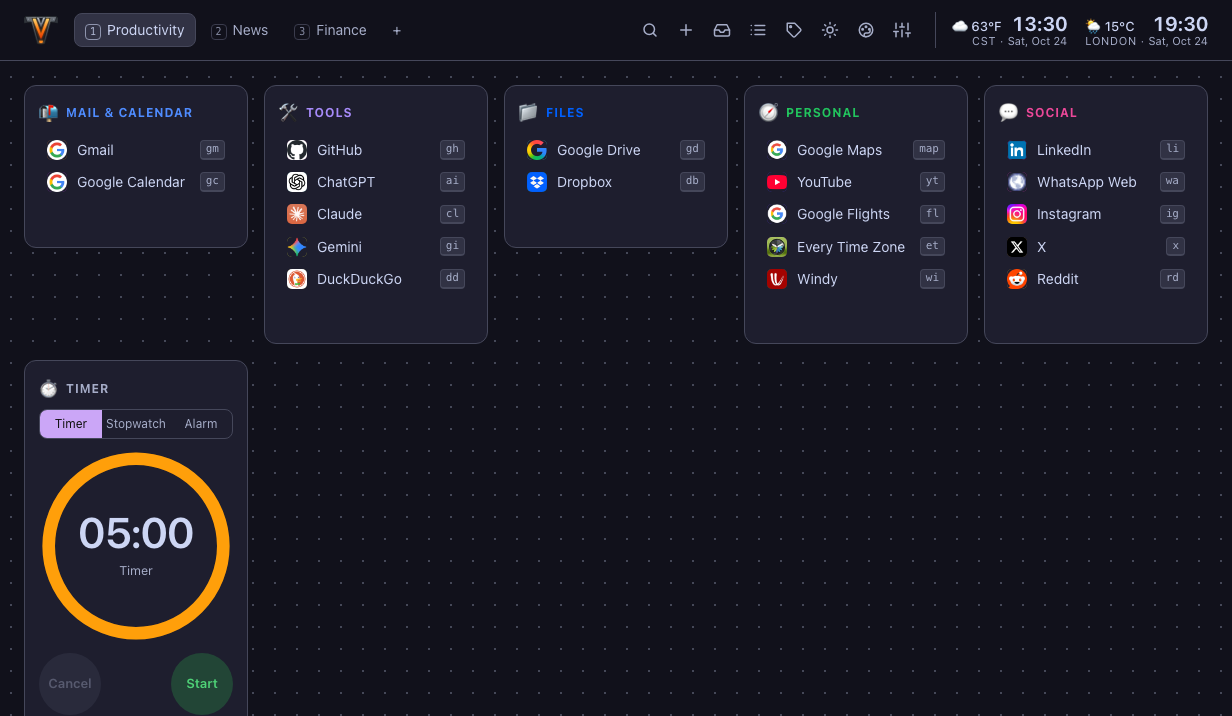
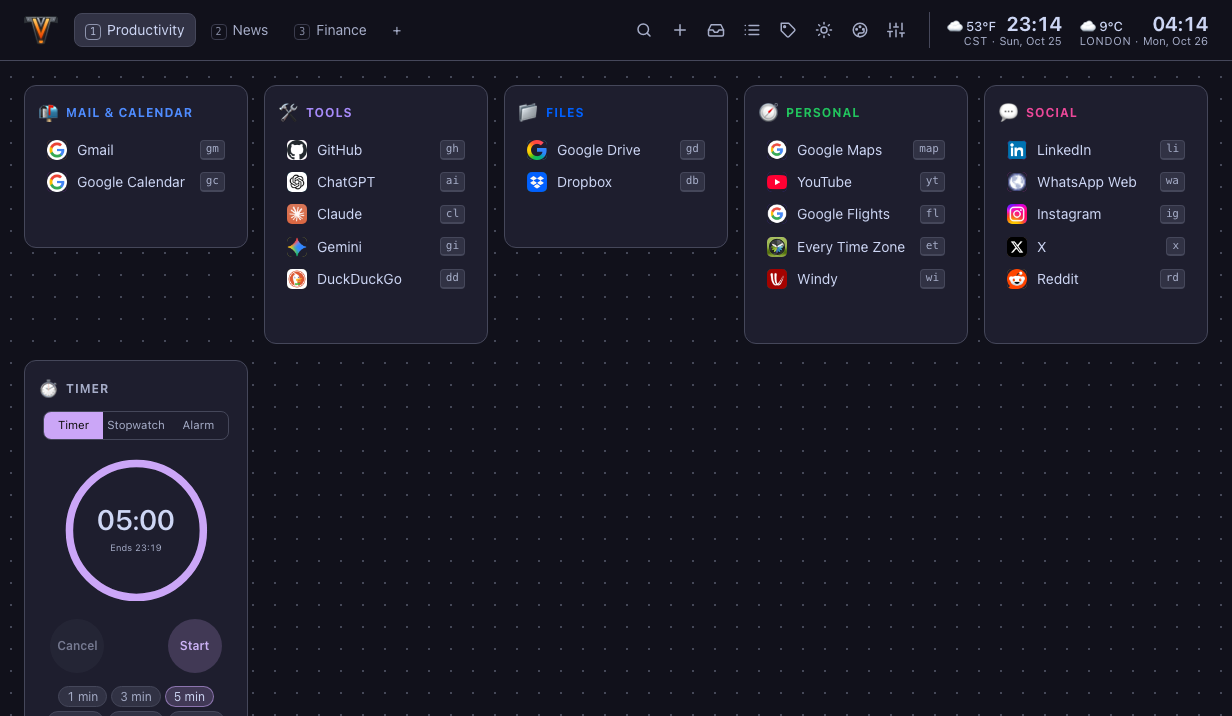
Polish the timer widget and match it to every theme (#8)
- The ring, buttons, presets and alarm switches take the theme's accent (or the card's colour) instead of fixed orange, blue and purple.
- Smaller ring and digits with more room at the card edges; thinner stroke.
- Neutral Cancel and Lap buttons, an outlined Pause, red Stop for the stopwatch, and theme colours for best and worst laps.
- An idle timer shows when it would end; the Time's up screen has a solid Stop button.
- Tour re-recorded.

diff --git a/index.html b/index.html
@@ -413,49 +413,56 @@ kbd{font:11px/1.5 var(--mono);background:var(--surface2);border:1px solid var(--
 .stk iframe{display:block;width:125%;height:150px;border:0;pointer-events:none;transform:scale(.8);transform-origin:0 0} /* the chart needs ~240px to show its price axis */
 .stkchart{height:min(52vh,440px);border-radius:8px;overflow:hidden;border:1px solid var(--border)}
 .stkchart iframe{width:100%;height:100%;border:0;display:block}
-.tm{display:flex;flex-direction:column;align-items:center;gap:10px}
+.tm{display:flex;flex-direction:column;align-items:center;gap:12px;padding:2px 4px}
 .tm .seg{align-self:stretch;display:flex}
-.tm .seg button{flex:1;padding:5px 4px;font-size:12px}
-.tmring{position:relative;width:min(100%,230px);aspect-ratio:1;container-type:inline-size}
+.tm .seg button{flex:1;padding:5px 4px;font-size:11.5px}
+.tmring{position:relative;width:min(80%,190px);aspect-ratio:1;container-type:inline-size;margin:4px 0 2px}
 .tmring[data-act]{cursor:pointer}
 .tmring svg{width:100%;height:100%;transform:rotate(-90deg);display:block}
-.tmring circle{fill:none;stroke-width:6.5;stroke-linecap:round}
-.tmring .trk{stroke:color-mix(in srgb,var(--tmc) 20%,transparent)}
+.tmring circle{fill:none;stroke-width:5;stroke-linecap:round}
+.tmring .trk{stroke:color-mix(in srgb,var(--tmc) 16%,transparent)}
 .tmring .bar{stroke:var(--tmc)}
 .tmin{position:absolute;inset:0;display:flex;flex-direction:column;align-items:center;justify-content:center;pointer-events:none}
-.tmd{font-size:22cqi;font-weight:600;font-variant-numeric:tabular-nums;letter-spacing:-.02em;line-height:1}
-.tmsub{font-size:6.5cqi;color:var(--muted);margin-top:4cqi;font-variant-numeric:tabular-nums;max-width:70cqi;text-align:center;white-space:nowrap;overflow:hidden;text-overflow:ellipsis}
-.tmbtns{display:flex;justify-content:space-between;width:min(100%,250px)}
-.tmb{width:62px;height:62px;border-radius:50%;border:0;font:inherit;font-size:13px;font-weight:600;cursor:pointer;--b:var(--muted);background:color-mix(in srgb,var(--b) 22%,transparent);color:color-mix(in srgb,var(--b) 80%,var(--text))}
-.tmb:hover{background:color-mix(in srgb,var(--b) 32%,transparent)}
-.tmb:disabled{opacity:.4;cursor:default}
-.tmb.go{--b:#30d158}.tmb.pause{--b:#ff9f0a}.tmb.stop{--b:#ff453a}
+.tmd{font-size:19cqi;font-weight:550;font-variant-numeric:tabular-nums;letter-spacing:-.01em;line-height:1}
+.tmsub{font-size:6.2cqi;color:var(--muted);margin-top:4.5cqi;font-variant-numeric:tabular-nums;max-width:70cqi;text-align:center;white-space:nowrap;overflow:hidden;text-overflow:ellipsis}
+.tmbtns{display:flex;justify-content:space-between;width:min(92%,216px)}
+.tmb{width:54px;height:54px;border-radius:50%;border:0;font:inherit;font-size:12px;font-weight:600;cursor:pointer;--b:var(--text);background:color-mix(in srgb,var(--b) 8%,transparent);color:var(--text);transition:background .12s}
+.tmb:hover{background:color-mix(in srgb,var(--b) 14%,transparent)}
+.tmb:disabled{opacity:.5;cursor:default;background:color-mix(in srgb,var(--b) 8%,transparent)}
+.tmb.go,.tmb.pause,.tmb.stop{--b:var(--tmc);background:color-mix(in srgb,var(--b) 20%,transparent);color:color-mix(in srgb,var(--b) 72%,var(--text))}
+.tmb.go:hover,.tmb.stop:hover{background:color-mix(in srgb,var(--b) 30%,transparent)}
+.tmb.pause{background:transparent;box-shadow:inset 0 0 0 1.5px color-mix(in srgb,var(--b) 55%,transparent)}
+.tmb.pause:hover{background:color-mix(in srgb,var(--b) 10%,transparent)}
+.tmb.stop{--b:var(--danger)}
 .tmpre{display:flex;flex-wrap:wrap;justify-content:center;gap:2px}
-.tmpre .chip.on{background:var(--tmc);border-color:var(--tmc);color:#111}
+.tmpre .chip{font-variant-numeric:tabular-nums}
+.tmpre .chip.on{background:color-mix(in srgb,var(--tmc) 20%,transparent);border-color:color-mix(in srgb,var(--tmc) 55%,transparent);color:var(--text)}
 .tmlaps{width:100%;font-size:12px;font-variant-numeric:tabular-nums;max-height:110px;overflow:auto}
 .tmlaps div{display:flex;justify-content:space-between;padding:3px 2px;border-top:1px solid var(--border)}
-.tmlaps .best{color:#30d158}.tmlaps .worst{color:#ff453a}
+.tmlaps .best{color:var(--ok)}.tmlaps .worst{color:var(--danger)}
 .alr{display:flex;align-items:center;gap:8px;width:100%;padding:4px 0;border-top:1px solid var(--border)}
-.alr .at{font-size:26px;font-weight:600;font-variant-numeric:tabular-nums;line-height:1.1}
+.alr .at{font-size:22px;font-weight:550;font-variant-numeric:tabular-nums;line-height:1.1}
 .alr .aw{flex:1;min-width:0;display:flex;flex-direction:column}
 .alr .lb{font-size:12px;color:var(--muted);overflow:hidden;text-overflow:ellipsis;white-space:nowrap}
 .alr.off .at{color:var(--muted)}
 .alr .ibtn{opacity:0}.alr:hover .ibtn{opacity:1}
 .tgl{flex:none;width:40px;height:24px;border-radius:12px;border:0;background:var(--surface2);box-shadow:inset 0 0 0 1px var(--border);position:relative;cursor:pointer;padding:0}
 .tgl::after{content:"";position:absolute;top:2px;left:2px;width:20px;height:20px;border-radius:50%;background:#fff;box-shadow:0 1px 3px rgba(0,0,0,.3)}
-.tgl.on{background:#30d158;box-shadow:none}.tgl.on::after{left:18px}
-.tm.big{gap:18px;padding:4px 0 8px}
+.tgl.on{background:var(--tmc);box-shadow:none}.tgl.on::after{left:18px}
+.tm.big{gap:18px;padding:6px 0 8px}
 .tm.big .seg{align-self:center;width:min(420px,100%)}
-.tm.big .tmring{width:min(40vh,460px)}
-.tm.big .tmbtns{width:min(50vh,500px)}
-.tm.big .tmb{width:84px;height:84px;font-size:16px}
+.tm.big .tmring{width:min(40vh,440px)}
+.tm.big .tmbtns{width:min(46vh,460px)}
+.tm.big .tmb{width:78px;height:78px;font-size:15px}
 .tm.big .tmlaps{max-width:420px;max-height:20vh;font-size:14px}
-.tm.big .alr{max-width:420px}.tm.big .alr .at{font-size:34px}
-#tmRing{position:fixed;inset:0;z-index:95;background:color-mix(in srgb,var(--bg) 72%,transparent);backdrop-filter:blur(14px);-webkit-backdrop-filter:blur(14px);display:flex;flex-direction:column;align-items:center;justify-content:center;gap:14px;text-align:center;padding:24px}
+.tm.big .alr{max-width:420px}.tm.big .alr .at{font-size:30px}
+#tmRing{--tmc:var(--accent);position:fixed;inset:0;z-index:95;background:color-mix(in srgb,var(--bg) 72%,transparent);backdrop-filter:blur(14px);-webkit-backdrop-filter:blur(14px);display:flex;flex-direction:column;align-items:center;justify-content:center;gap:14px;text-align:center;padding:24px}
 #tmRing .ic{font-size:96px;line-height:1;animation:tmshake .45s ease-in-out infinite alternate}
 #tmRing h2{font-size:clamp(36px,7vw,72px);margin:0;letter-spacing:-.02em}
 #tmRing .tmbtns{width:min(320px,100%);margin-top:10px}
-#tmRing .tmb{width:112px;height:112px;font-size:19px}
+#tmRing .tmb{width:104px;height:104px;font-size:17px}
+#tmRing .tmb.go{background:var(--tmc);color:var(--on-accent)}
+#tmRing .tmb.go:hover{background:color-mix(in srgb,var(--tmc) 85%,var(--text))}
 @keyframes tmshake{from{transform:rotate(-14deg)}to{transform:rotate(14deg)}}
 .wxfoot{font-size:11px;color:var(--muted);display:flex;gap:6px;align-items:center;flex-wrap:wrap}
 .wxfoot a{color:var(--muted)}
@@ -1219,12 +1226,11 @@ function editSymbols(id) {
 
 /* ---------- timer, stopwatch & alarm (one widget, three modes) ---------- */
 const TM_MODES = [['timer', 'Timer'], ['stopwatch', 'Stopwatch'], ['alarm', 'Alarm']];
-const TM_COL = { timer: '#ff9f0a', stopwatch: '#64d2ff', alarm: '#bf5af2' };
 const TM_PRESETS = [1, 3, 5, 10, 15, 25, 45, 60];
 const TMV = { id: null };
 const pad2 = n => String(n).padStart(2, '0');
 function tmInit(c) {
-  if (!TM_COL[c.mode]) c.mode = 'timer';
+  if (!TM_MODES.some(m => m[0] === c.mode)) c.mode = 'timer';
   if (!c.tm) c.tm = { dur: 5 * 60e3, total: 0, end: 0, left: 0, ring: false };
   if (!c.sw) c.sw = { start: 0, acc: 0, laps: [] };
   if (!Array.isArray(c.alarms)) c.alarms = [];
@@ -1280,7 +1286,7 @@ function timerHTML(c, big) {
     h = ring + (list.map(a => `<div class="alr ${a.on ? '' : 'off'}"><div class="aw"><span class="at">${esc(fmtHM(alarmAt(a)))}</span><span class="lb" title="${esc(a.label)}">${esc(a.label || 'Alarm')}</span></div><button class="ibtn sm" data-act="alDel" data-id="${id}" data-a="${a.id}" title="Delete">${I('x', 14)}</button><button class="tgl ${a.on ? 'on' : ''}" data-act="alToggle" data-id="${id}" data-a="${a.id}" title="${a.on ? 'Turn off' : 'Turn on'}" aria-pressed="${a.on}"></button></div>`).join('') || `<p class="muted" style="margin:0;font-size:12px;text-align:center">Alarms ring every day while switched on.</p>`)
       + `<button class="btn sm" data-act="alAdd" data-id="${id}">+ Add alarm</button>`;
   }
-  return `<div class="tm ${big ? 'big' : ''}" data-tmr="${id}" style="--tmc:${TM_COL[c.mode]}">${seg}${h}</div>`;
+  return `<div class="tm ${big ? 'big' : ''}" data-tmr="${id}" style="--tmc:${esc(c.color || 'var(--accent)')}">${seg}${h}</div>`;
 }
 function paintTimer(el, c) {
   const d = el.querySelector('.tmd'), sub = el.querySelector('.tmsub'), bar = el.querySelector('.bar');
@@ -1289,7 +1295,7 @@ function paintTimer(el, c) {
   if (c.mode === 'timer') {
     const t = c.tm, left = tmLeft(t);
     txt = fmtDur(left); frac = t.end || t.left ? left / (t.total || t.dur) : 1;
-    note = t.end ? '🔔 ' + fmtHM(t.end) : t.left ? 'Paused' : 'Timer';
+    note = t.end ? '🔔 ' + fmtHM(t.end) : t.left ? 'Paused' : 'Ends ' + fmtHM(now() + t.dur);
   } else if (c.mode === 'stopwatch') {
     const w = c.sw, e = swTime(w);
     txt = fmtSw(e); frac = (e % 60e3) / 60e3;
@@ -1300,7 +1306,7 @@ function paintTimer(el, c) {
     txt = fmtHM(n); frac = (n.getSeconds() + n.getMilliseconds() / 1000) / 60;
     note = nx ? `⏰ ${fmtHM(nx.t)} · in ${fmtIn(nx.t - now())}` : 'No alarms on';
   }
-  if (d.textContent !== txt) { d.textContent = txt; d.style.fontSize = (txt.length <= 5 ? 22 : txt.length <= 7 ? 17 : txt.length <= 8 ? 15 : 13) + 'cqi'; }
+  if (d.textContent !== txt) { d.textContent = txt; d.style.fontSize = (txt.length <= 5 ? 19 : txt.length <= 7 ? 15 : txt.length <= 8 ? 13.5 : 12) + 'cqi'; }
   if (sub.textContent !== note) sub.textContent = note;
   bar.style.strokeDashoffset = (100 * (1 - frac)).toFixed(2);
 }
@@ -1360,7 +1366,7 @@ function showRing(r) {
   if (o.dataset.k !== k) {
     o.dataset.k = k;
     o.innerHTML = `<div class="ic">${a ? '⏰' : '⏲'}</div><h2>${a ? esc(a.label || 'Alarm') : 'Time’s up'}</h2><div class="muted">${a ? esc(fmtHM(alarmAt(a))) : esc(fmtDur(c.tm.total || c.tm.dur)) + ' timer'}</div>
-      <div class="tmbtns"><button class="tmb" data-ring="${a ? 'snooze' : 'again'}">${a ? 'Snooze' : 'Repeat'}</button><button class="tmb pause" data-ring="stop">Stop</button></div>
+      <div class="tmbtns"><button class="tmb" data-ring="${a ? 'snooze' : 'again'}">${a ? 'Snooze' : 'Repeat'}</button><button class="tmb go" data-ring="stop">Stop</button></div>
       <div class="muted" style="font-size:12px"><kbd>Enter</kbd> stops${a ? ' · snooze is 9 minutes' : ''}</div>`;
   }
   o.hidden = false;
